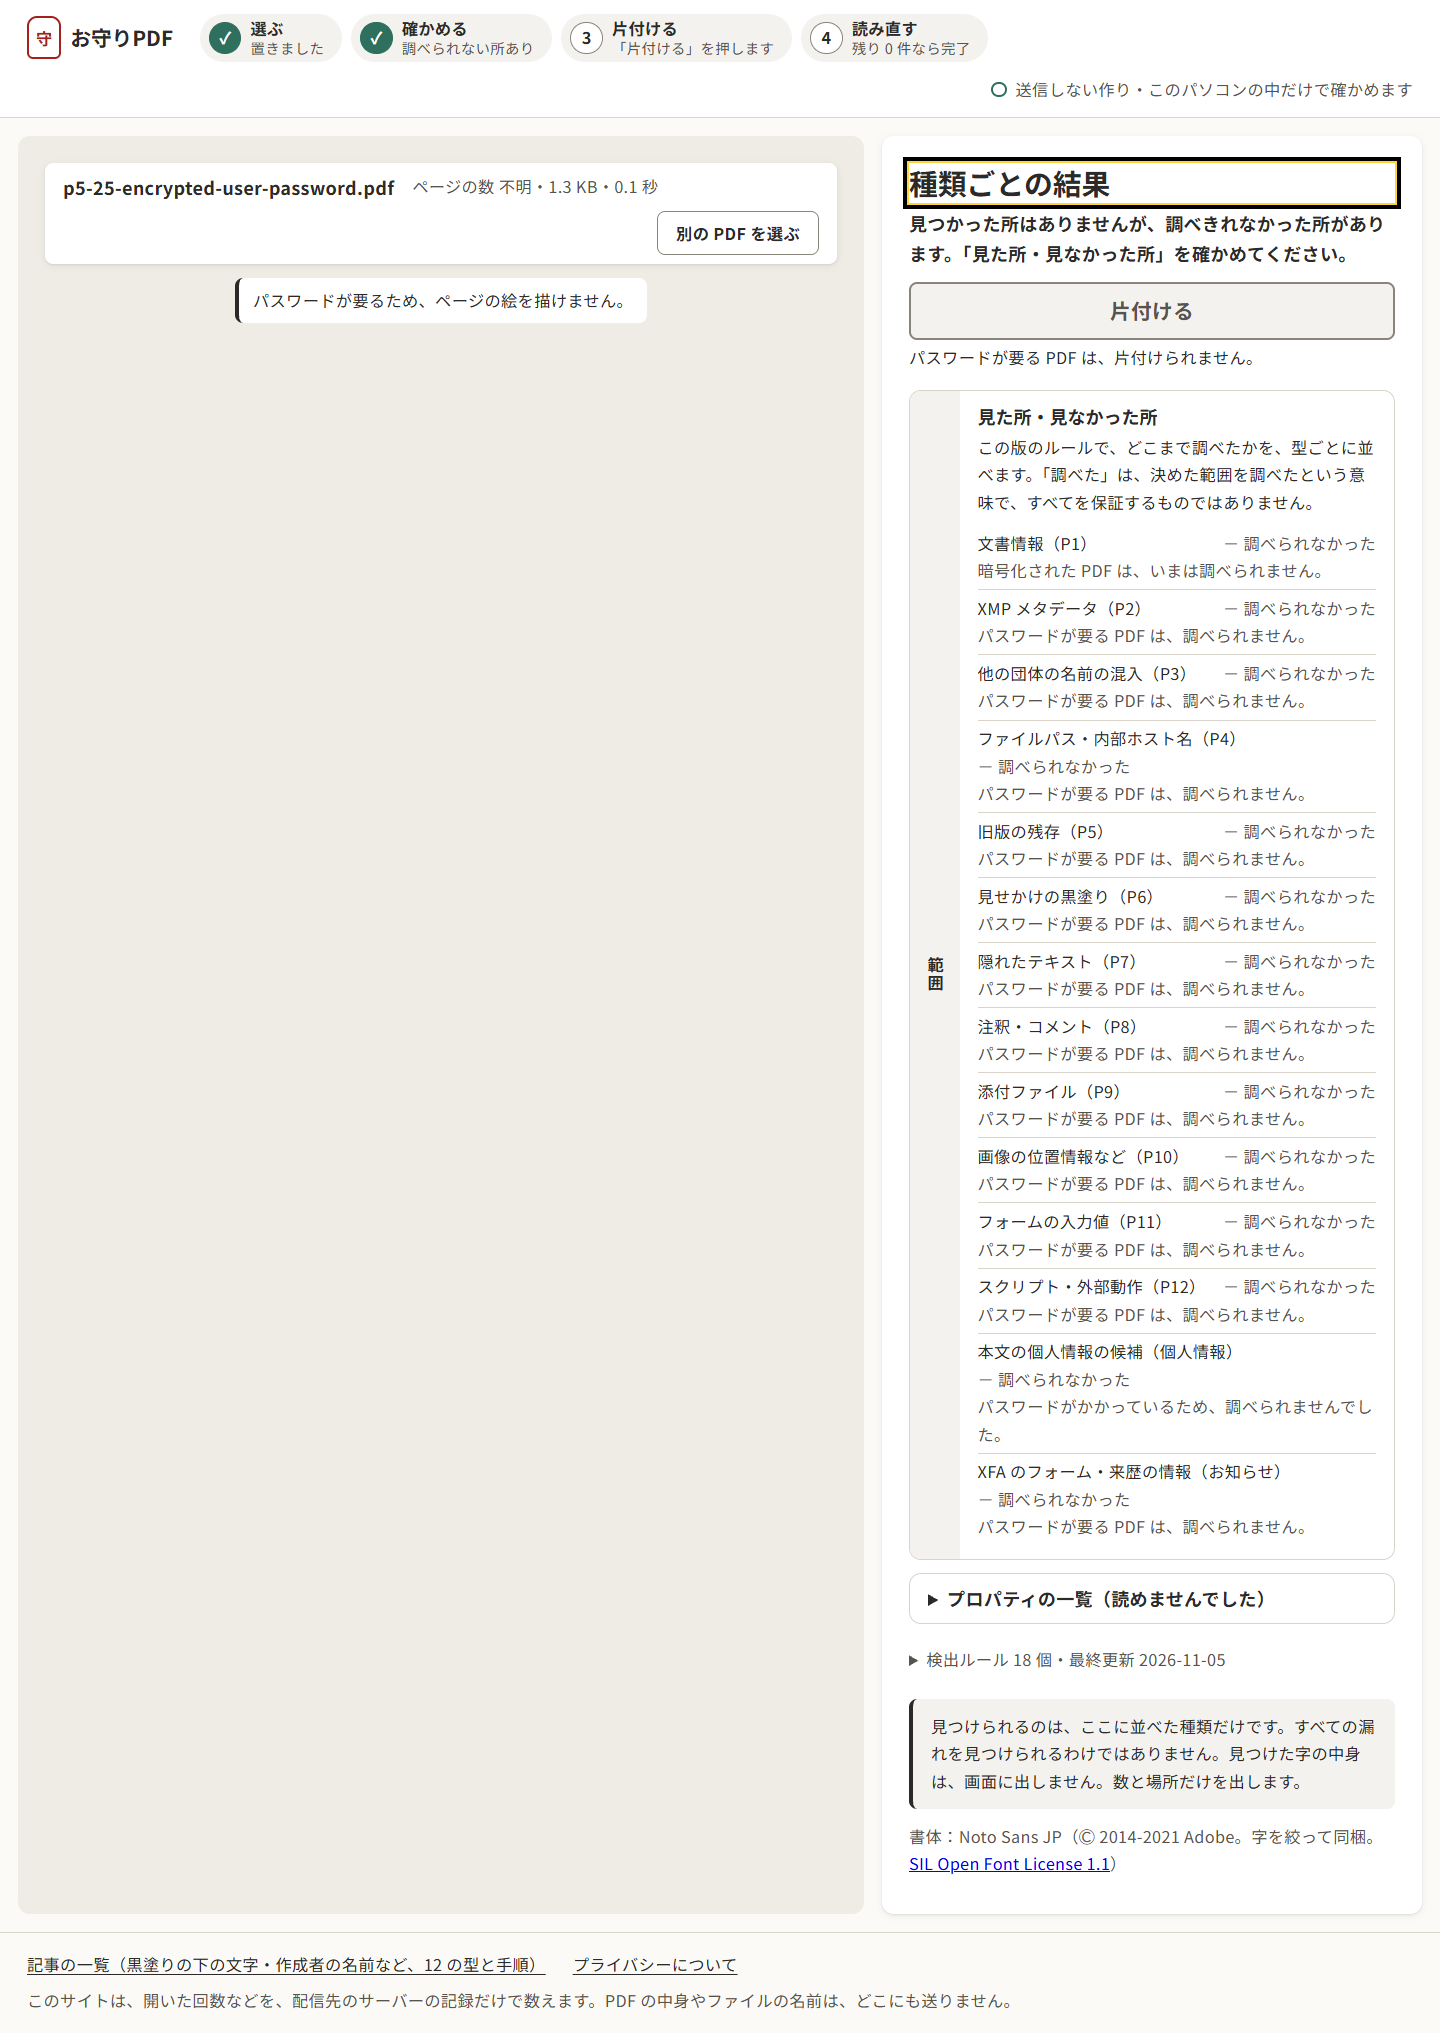
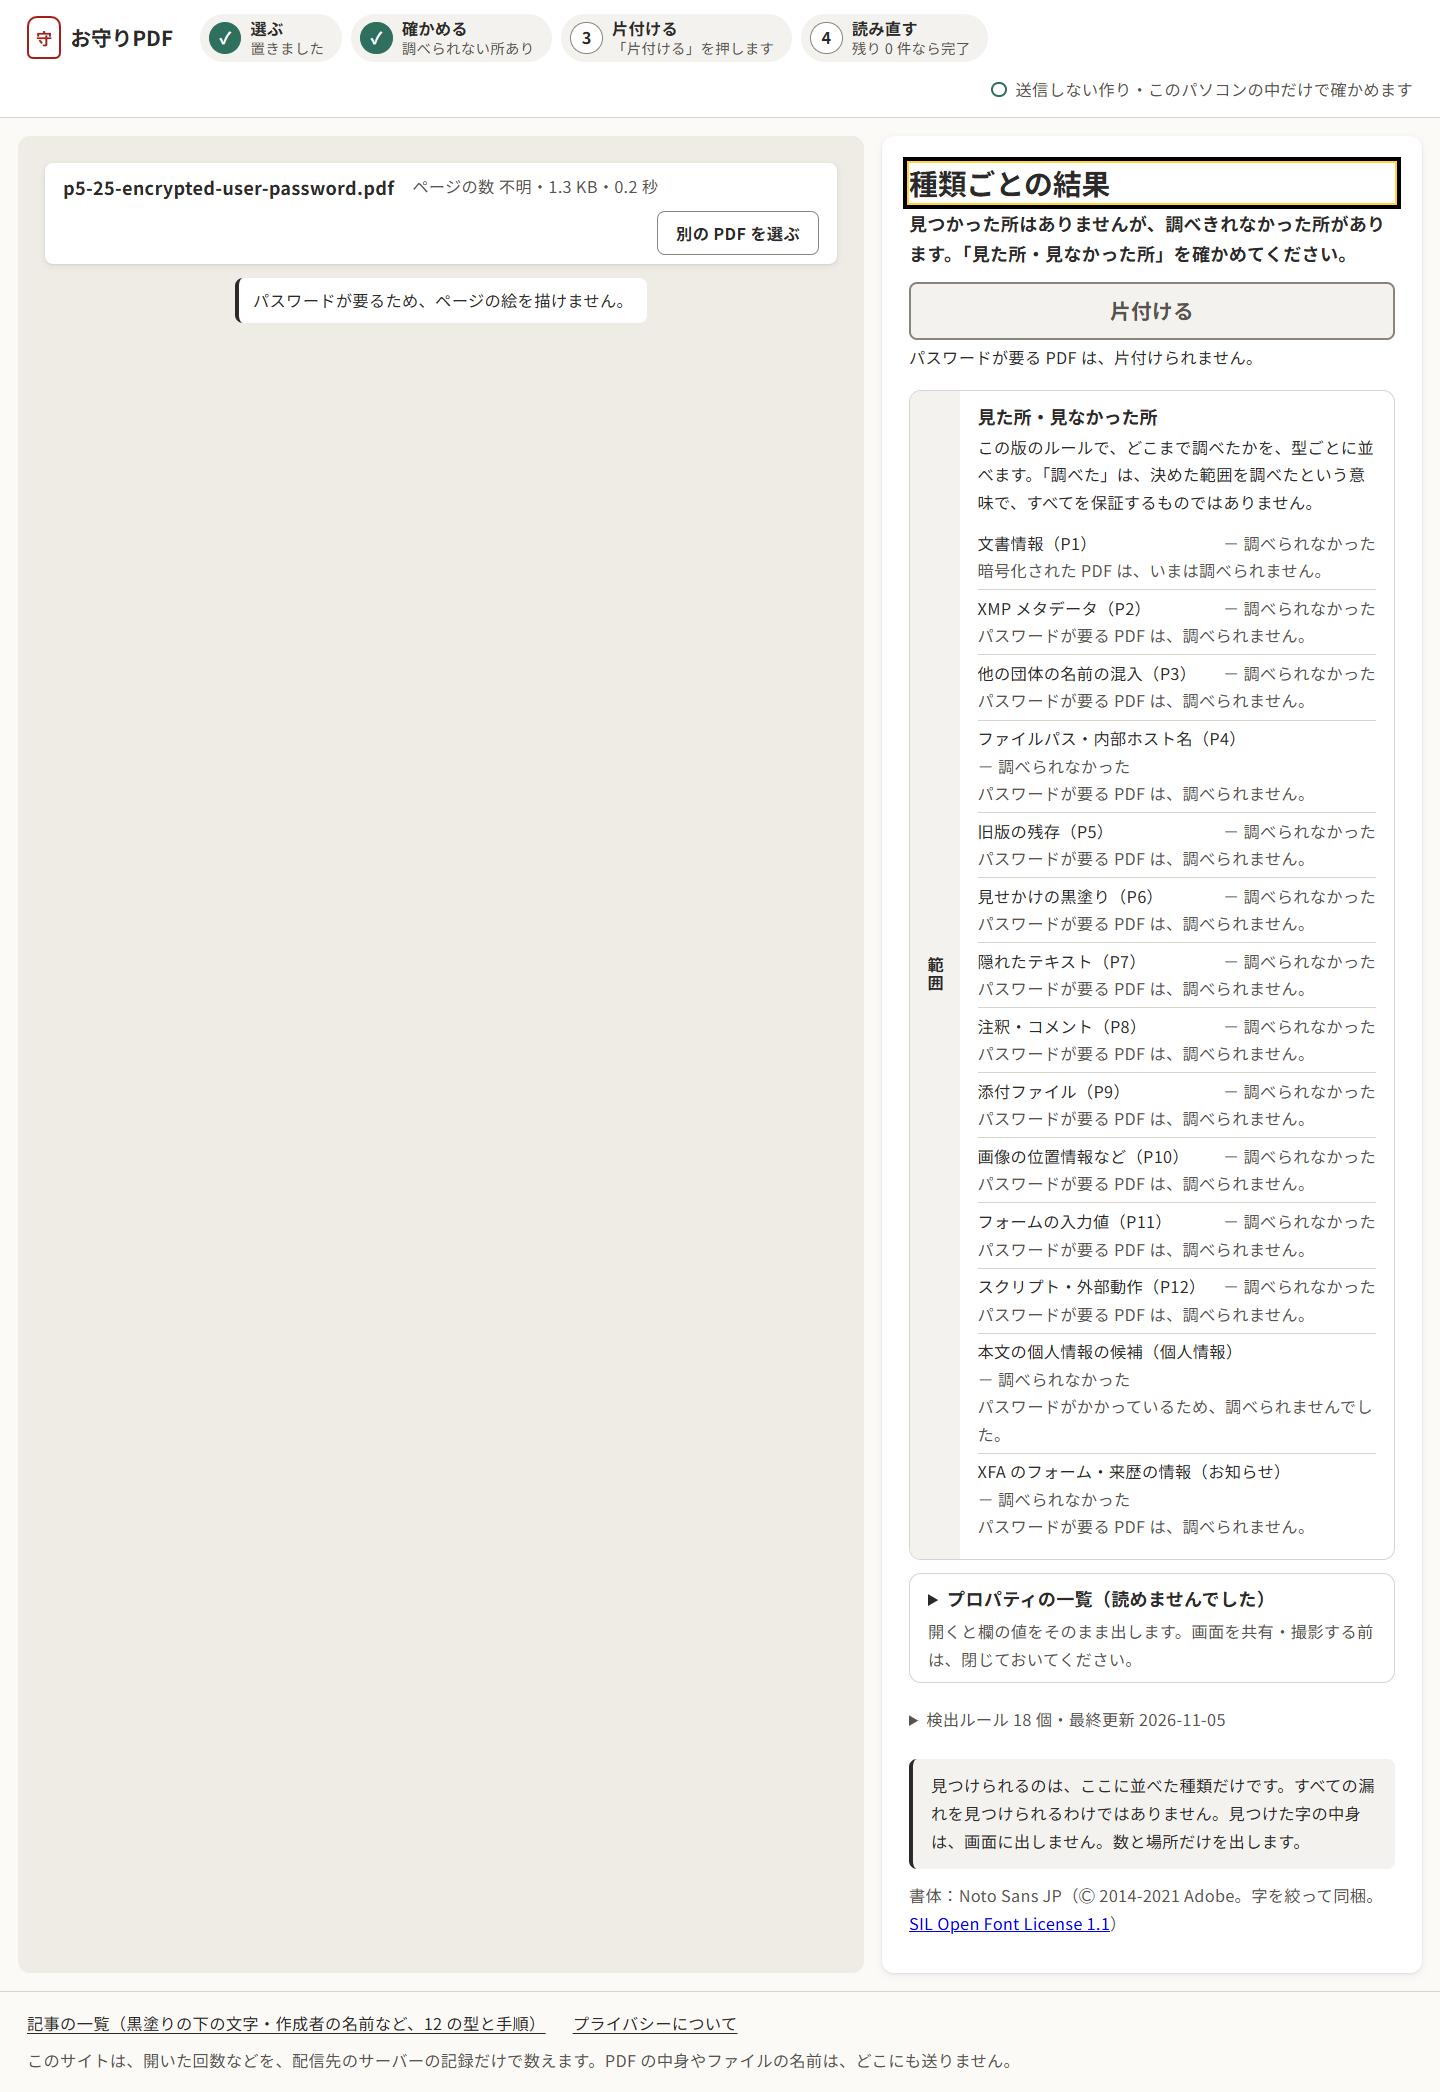
design/：公式でないサイトの知らせ・閉じたプロパティの一覧を決まりに足し、画面を撮り直す（disableFontFace の前後の比べも置く。合成 PDF だけ）

diff --git a/design/README.md b/design/README.md
@@ -123,8 +123,9 @@
 | 見本の PDF | `.sample`・`.sample-button` | 置き場の下に、枠だけのボタン |
 | 処理の報告書 | `.report-download` | 片付けた結果の中、保存のボタンより控えめな枠だけのボタン |
 | ファイルを小さくする | `.compress`・`.compress-preset`・`.compress-run` | 片付けた結果の中、報告書の下に区切り線で分けて置く（読み直しで残りが 0 件のときだけ）。細かさは3つのラジオボタン（`fieldset` と `legend`、名前の下に補足の字）。結果は前後の大きさ・書き直した数・読み直しの結果。保存のボタンは `.download` と同じ決まり（読み直しが通ったときだけ押せる） |
+| 公式でないサイトの知らせ | `.unofficial` | 画面のいちばん上。紅の地に白の字と「▲」。公式（omamoripdf.com）と手元の開発用（localhost・127.0.0.1・::1）では出さない。丸写しの目印で、守りの中心にはしない |
 | 型ごとの前後の数 | `.before-after` | 片付けた結果の中。残っている型は紅の字と「▲」 |
-| プロパティの一覧 | `.props`・`.prop-org` | 値を出してよいのはここだけ。団体名らしい語は、紅の下線と薄い紅の地 |
+| プロパティの一覧 | `.props`・`.prop-org` | 最初は閉じた形で出し、見出しの下に「画面を共有・撮影する前は、閉じておいてください」の一言（`.props-warn`）。値を出してよいのはここだけ。団体名らしい語は、紅の下線と薄い紅の地 |
 | ルールの版 | `.ruleset` | 結果の下に、閉じた形で控えめに |
 
 ## アクセシビリティで確かめたこと
@@ -147,7 +148,7 @@ ISO/IEC 40500:2012 と JIS X 8341-3:2016 は WCAG 2.0 と同じ内容。DADS は
 
 ## スクリーンショット
 
-`design/screenshots/` は、2026-11-05 にこの見た目で撮り直した（幅 1440、`-narrow` は幅 420、`-narrow-360` は幅 360）。同じ日の夜に、小さくする（`compress-*`）・候補から選ぶ（`p13-*`）・キーボードで選ぶ（`pick-keyboard-*`）を足し、ほかも撮り直した。合成 PDF だけを使い、実在の書類は使っていない。
+`design/screenshots/` は、2026-11-05 にこの見た目で撮り直した（幅 1440、`-narrow` は幅 420、`-narrow-360` は幅 360）。`fontface-compare-*` は、ページの絵の PDF.js に `disableFontFace: true` を足す前（上）と後（下）を3倍に拡大して並べたもの。同じ日の夜に、小さくする（`compress-*`）・候補から選ぶ（`p13-*`）・キーボードで選ぶ（`pick-keyboard-*`）を足し、ほかも撮り直した。合成 PDF だけを使い、実在の書類は使っていない。
 
 ## 出典
 
